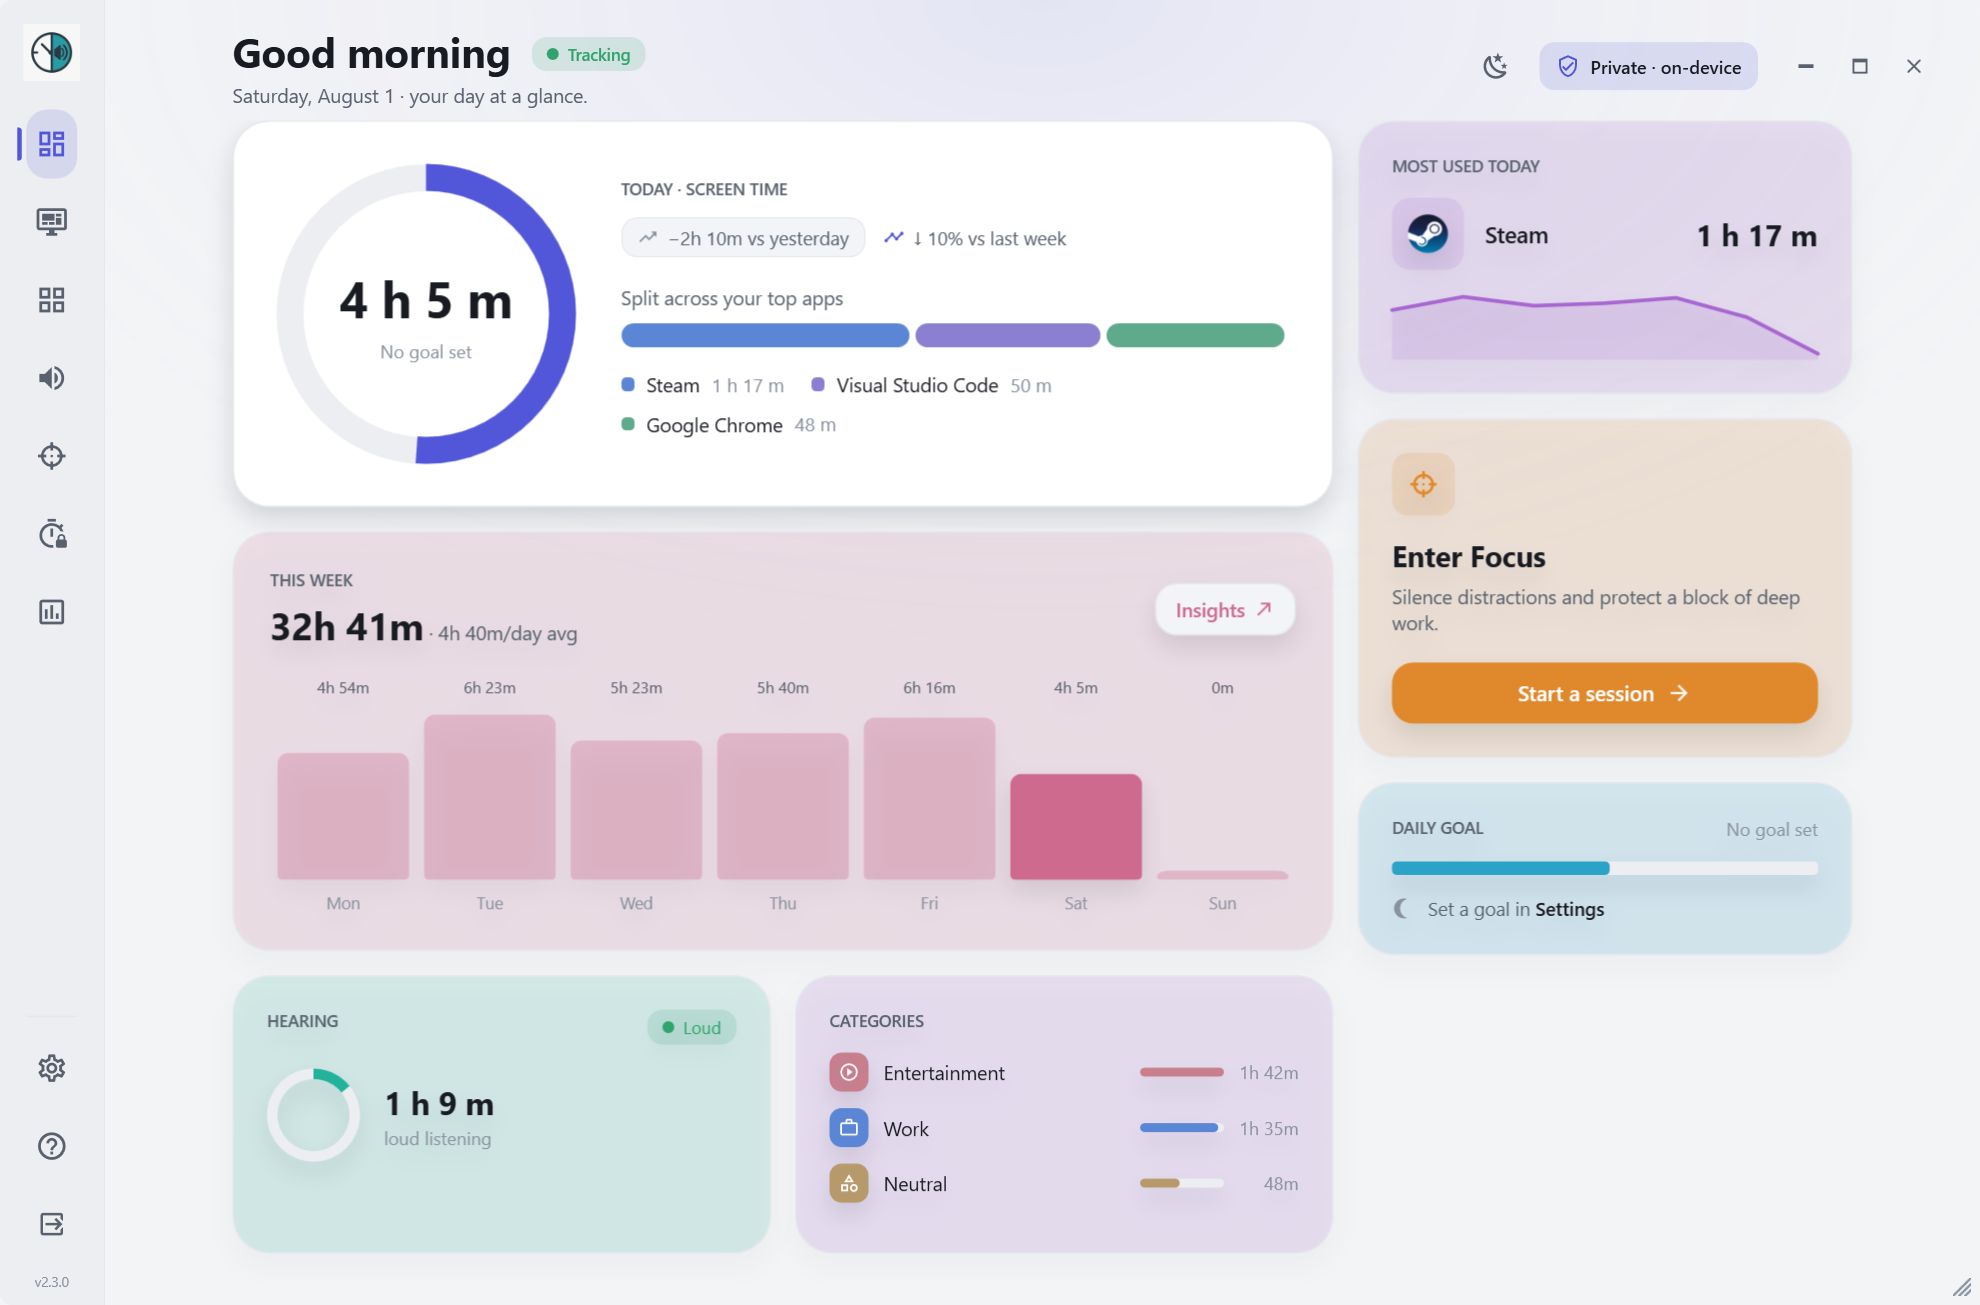
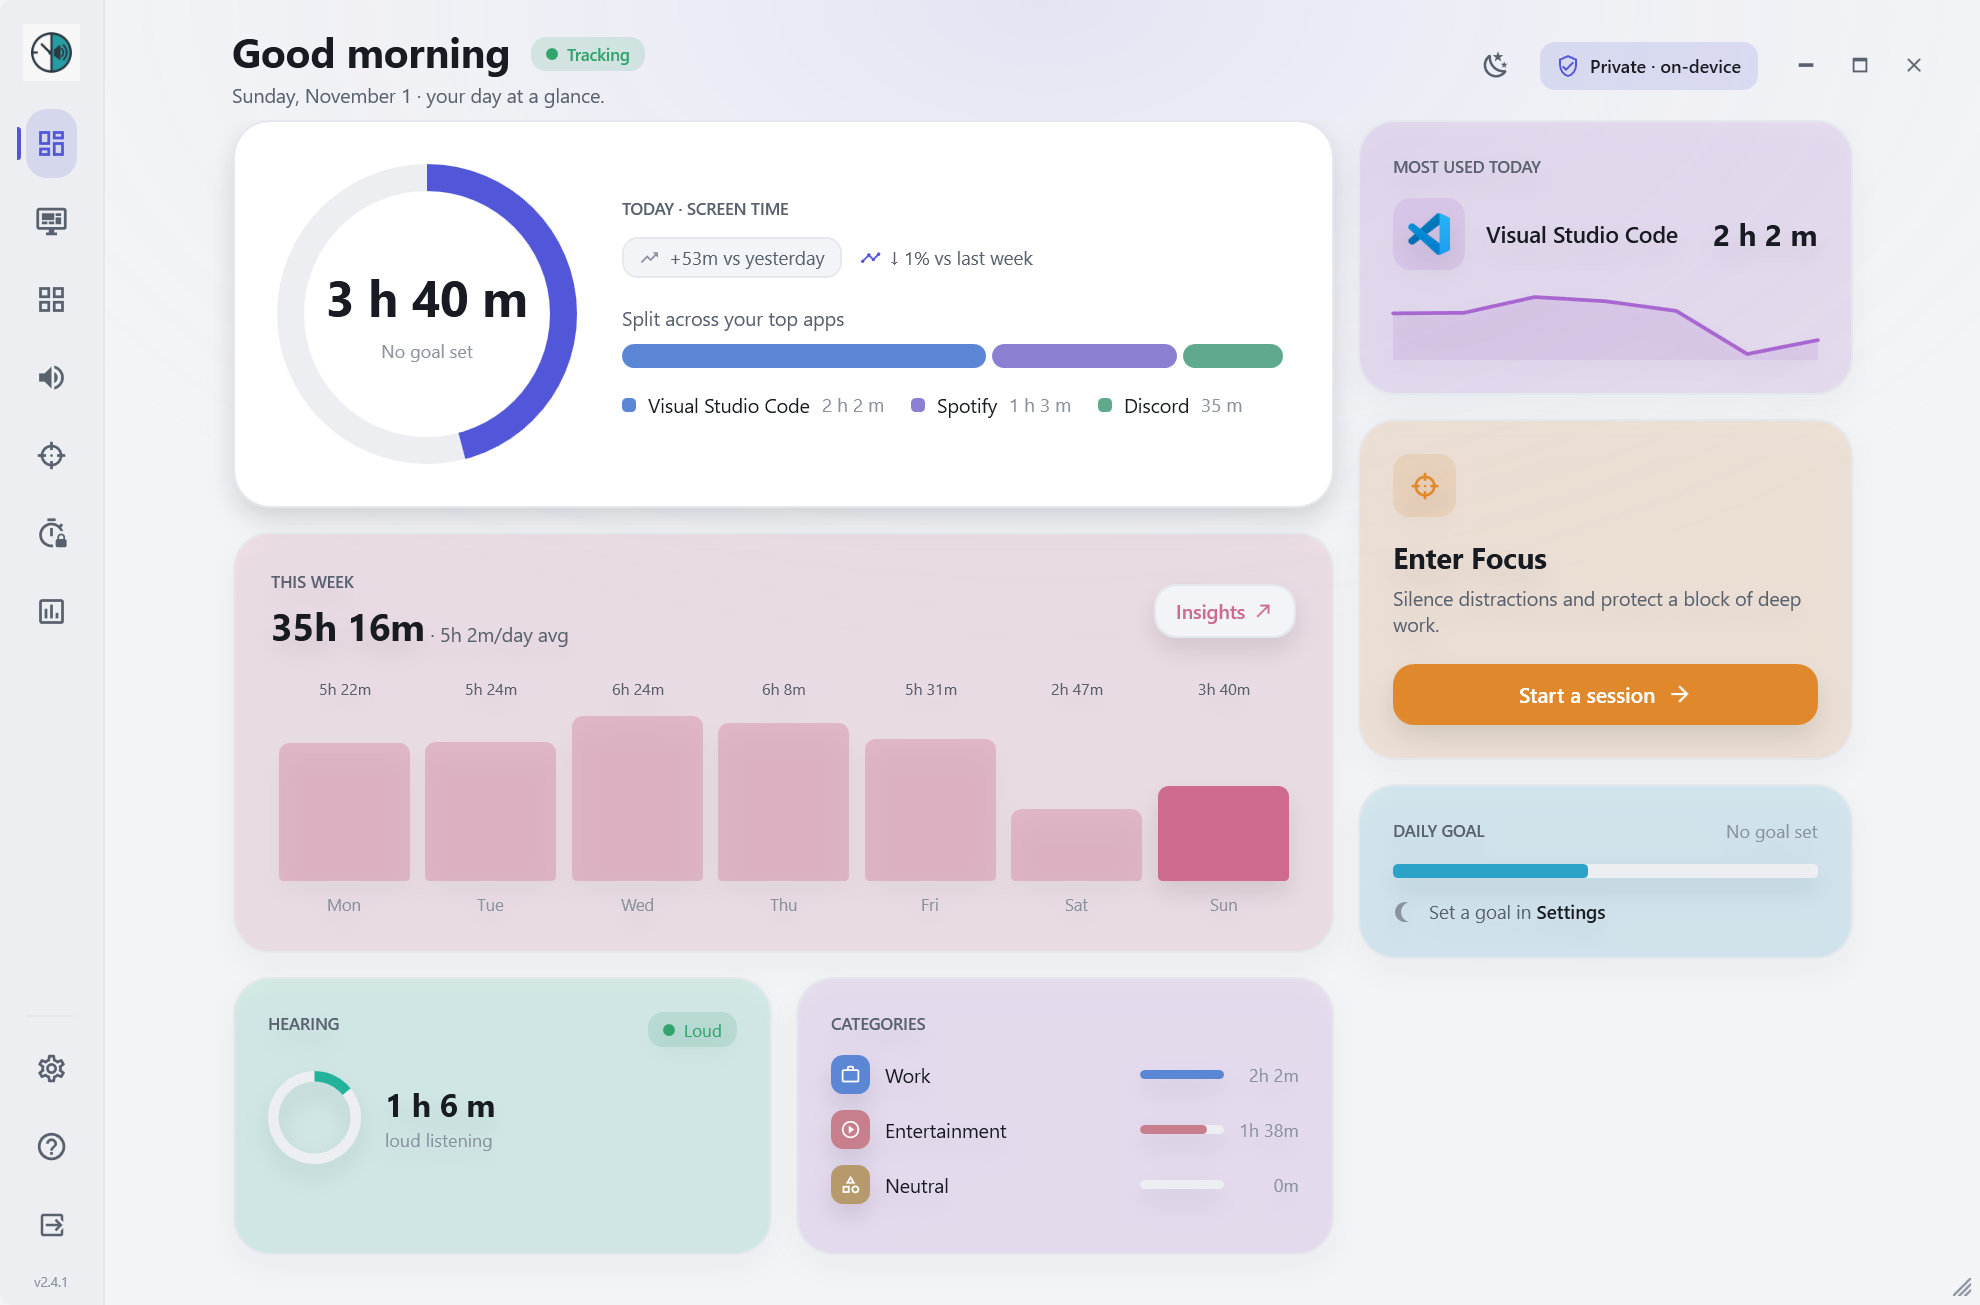
docs: refresh screenshots for 2.4.1 and add the command line

diff --git a/README.md b/README.md
@@ -104,6 +104,10 @@ pulse help       all commands
 
 It only reads what Pulse records on your PC, in the same language as the app. The app does the recording.
 
+<p align="center">
+  <img src=".github/screenshots/terminal.png" alt="pulse today and pulse week in Windows Terminal" width="640"/>
+</p>
+
 ---
 
 ## Tech stack
